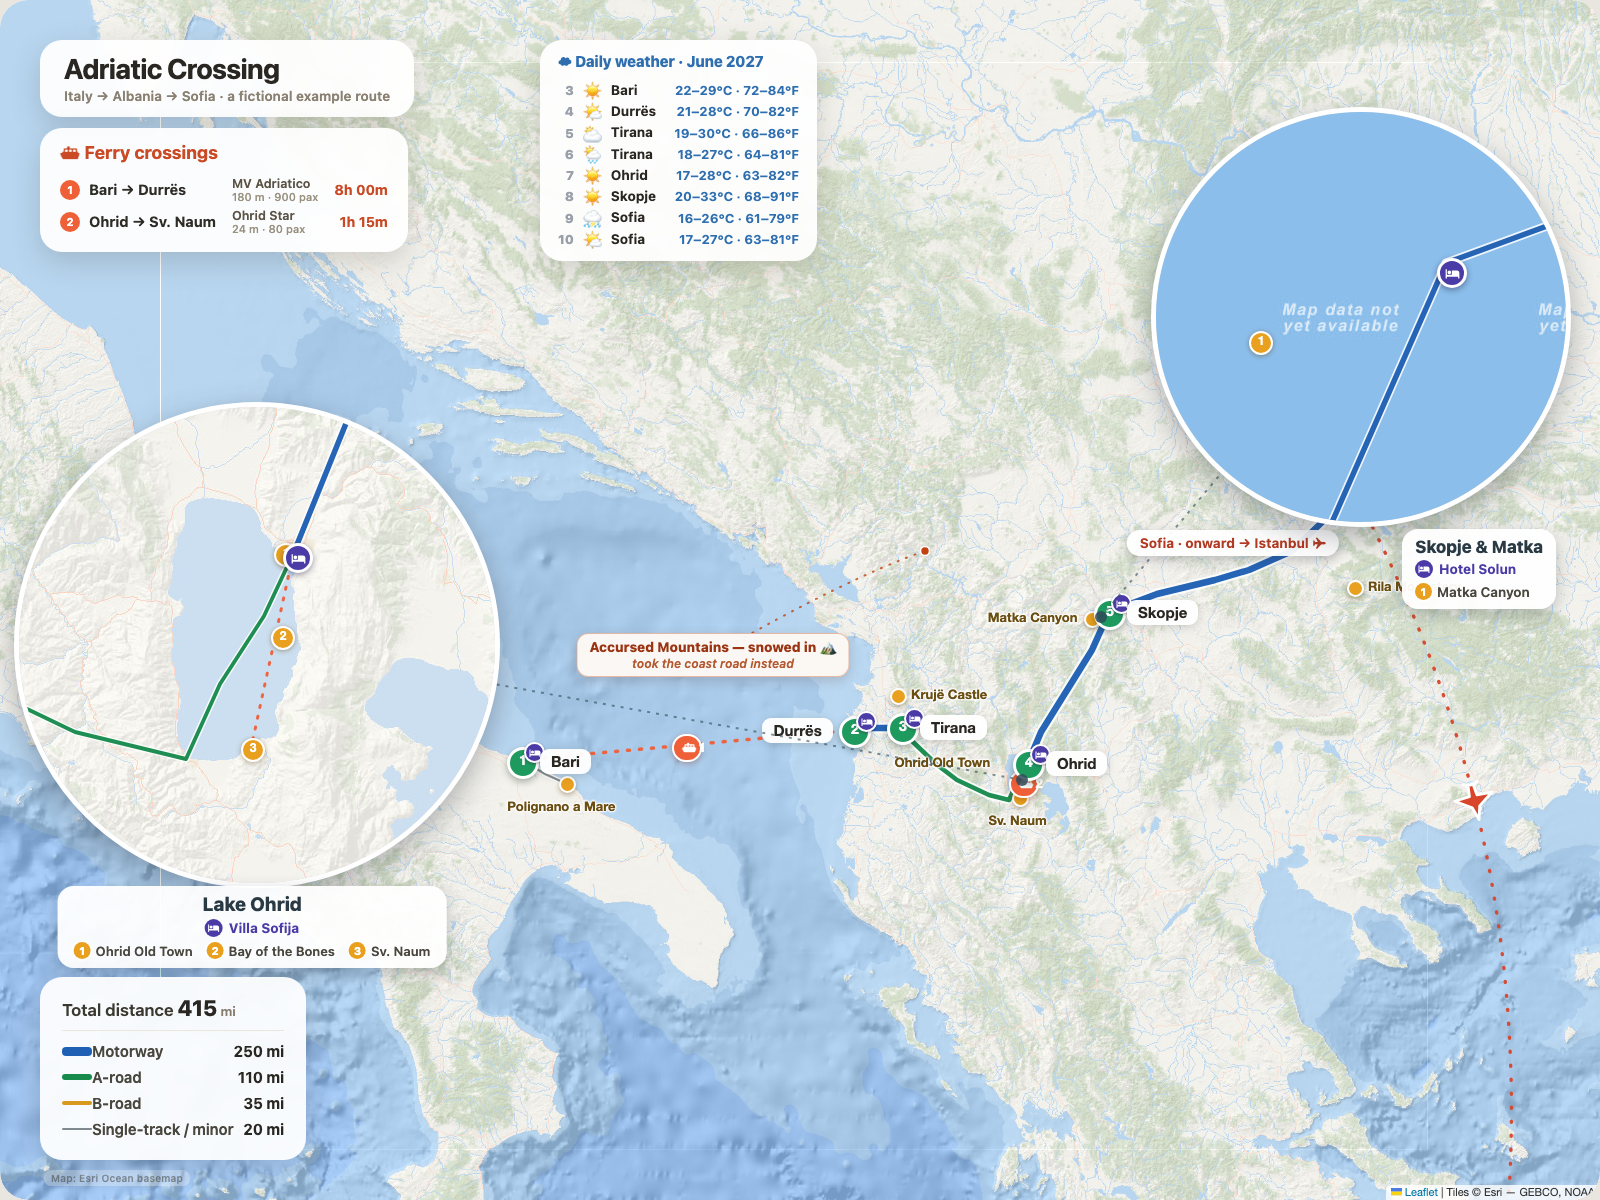
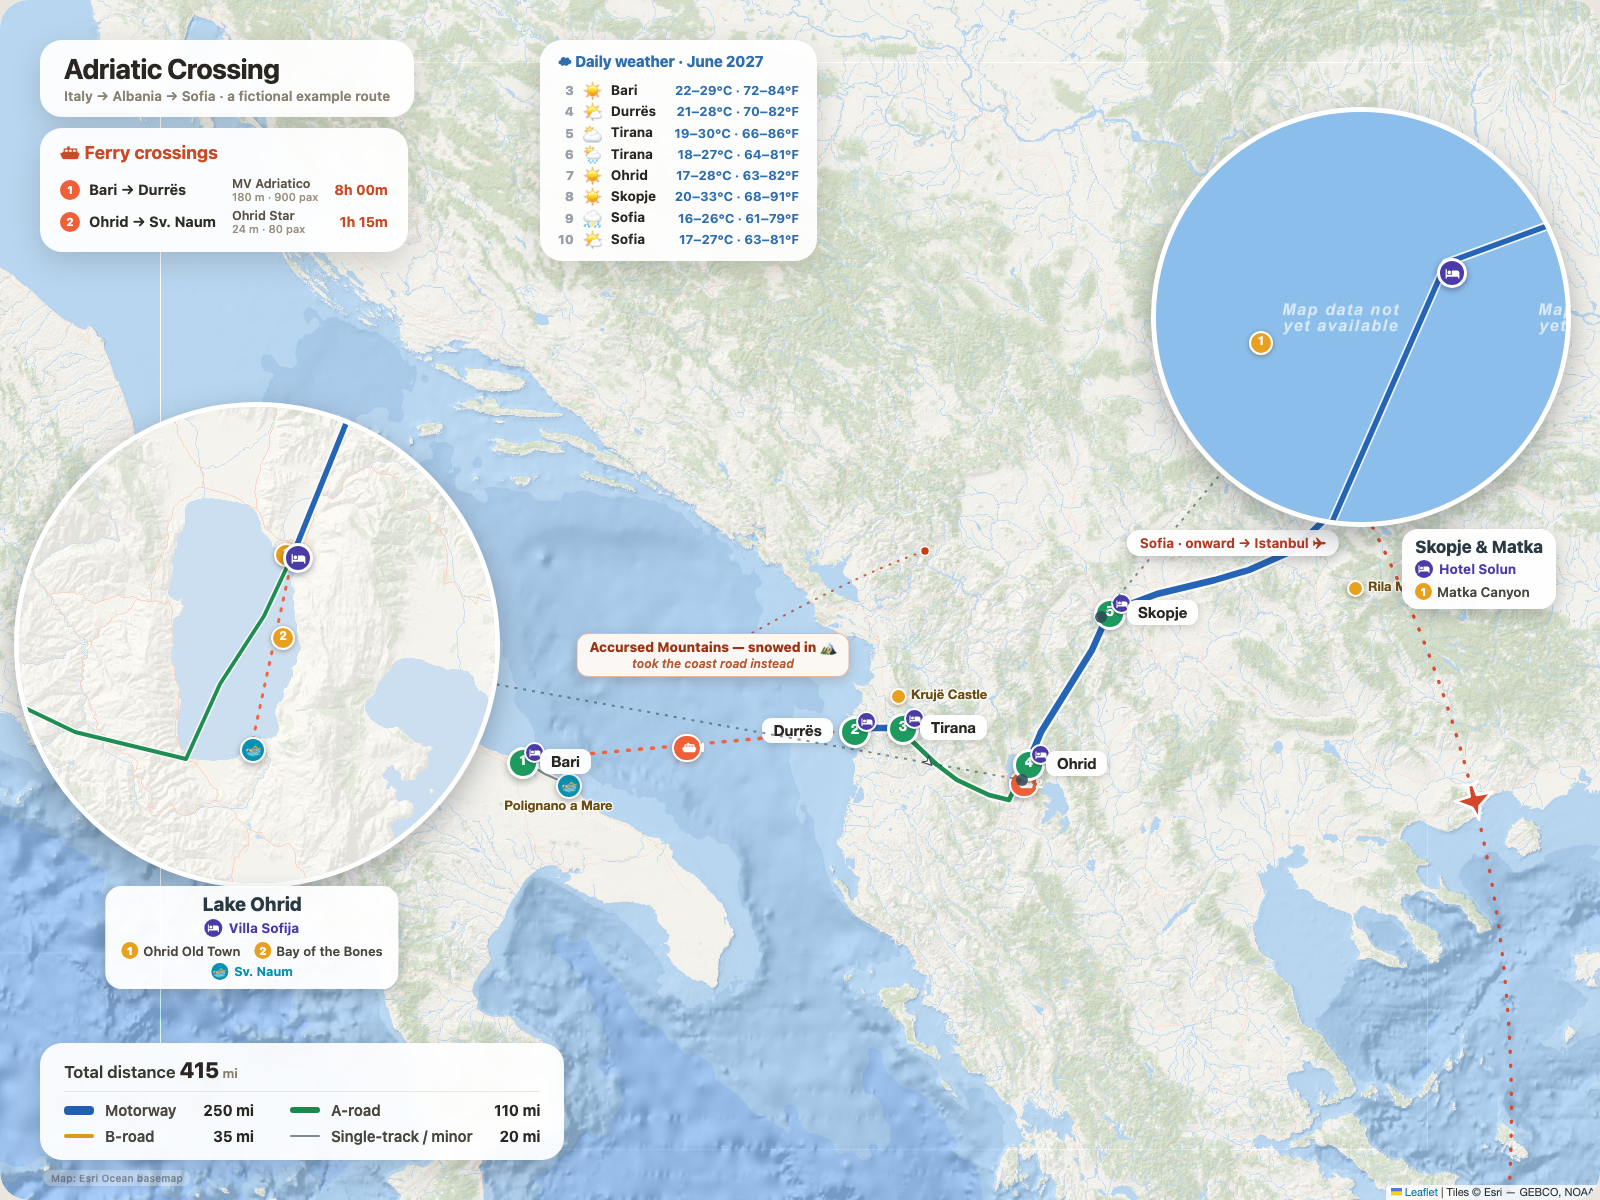
Add ROADMAP (files-to-map pipeline) + port real-trip wins
- ROADMAP.md: frames the project as a raw-files → journey.json → website+PNG
  pipeline (photo EXIF GPS, GPX/KML, itinerary spreadsheet as input adapters),
  with the render half done and input adapters + orchestrator planned.
- Auto-declutter: a POI shown inside a blow-up inset is no longer drawn again
  on the main map.
- POI categories: data.poiKinds lets tagged pois carry a coloured/emoji marker
  and a caption line (schema + example demo it with a 'swim' category).
- Wide two-column distance legend.
- Re-rendered the four hero images.

diff --git a/src/lib/JourneyMap.svelte b/src/lib/JourneyMap.svelte
@@ -137,7 +137,12 @@
     for (const { p } of ferryPix) obstacles.push({ x: p.x - 18, y: p.y - 13, w: 36, h: 26 });
     const stayPix = data.stays.map((s, i) => ({ s, i, p: pt(s.lat, s.lon) }));
     for (const { p } of stayPix) obstacles.push({ x: p.x - 15, y: p.y - 15, w: 30, h: 30 });
-    const poiPix = data.pois.map((s) => ({ s, p: pt(s.lat, s.lon) }));
+    // optional POI categories: data.poiKinds[kind] = { color, emoji } → distinct marker
+    const KINDS = data.poiKinds || {};
+    const kindDot = (k, cls) => `<div class="${cls}" style="background:${(KINDS[k] || {}).color || '#8a5a8f'}">${(KINDS[k] || {}).emoji || ''}</div>`;
+    // a POI shown inside a blow-up bubble is NOT drawn again on the main map (declutter)
+    const inBubble = (s) => INSETS.some((ins) => dkm([s.lat, s.lon], ins.center) < ins.poiKm);
+    const poiPix = data.pois.filter((s) => !inBubble(s)).map((s) => ({ s, p: pt(s.lat, s.lon) }));
     for (const { p } of poiPix) obstacles.push({ x: p.x - 9, y: p.y - 9, w: 18, h: 18 });
 
     for (const { f } of ferryPix) {
@@ -153,15 +158,17 @@
         icon: L.divIcon({ className: '', iconSize: [30, 30], iconAnchor: [15, 15],
           html: `<div class="stay-pin">${i + 1}<span class="hotel-badge">${BED}</span></div><div class="pin-label town ${ra}" style="left:${dx}px;top:${dy}px"><b>${s.area}</b></div>` }) }).addTo(map);
     }
-    // POIs: dot ALWAYS shown; label only when it fits (no overlap, no clutter)
+    // POIs: dot ALWAYS shown; label only when it fits (no overlap, no clutter).
+    // A POI with a `kind` gets its category marker instead of the plain dot.
     for (const { s, p } of poiPix) {
+      const k = s.kind && KINDS[s.kind];
       const w = s.name.length * 7.1 + 6, h = 22;
-      const r = place(p.x, p.y, w, h, 13);
-      let html = `<div class="poi-dot"></div>`;
+      const r = place(p.x, p.y, w, h, k ? 15 : 13);
+      let html = k ? kindDot(s.kind, 'kind-dot') : `<div class="poi-dot"></div>`;
       if (r) { obstacles.push(r); const dx = r.x - (p.x - 8), dy = r.y - (p.y - 8), ra = r.x + r.w / 2 < p.x ? 'ra' : '';
         html += `<div class="poi-label ${ra}" style="left:${dx}px;top:${dy}px">${s.name}</div>`; }
-      L.marker([s.lat, s.lon], { interactive: false, zIndexOffset: 300,
-        icon: L.divIcon({ className: '', iconSize: [16, 16], iconAnchor: [8, 8], html }) }).addTo(map);
+      L.marker([s.lat, s.lon], { interactive: false, zIndexOffset: k ? 320 : 300,
+        icon: L.divIcon({ className: '', iconSize: k ? [22, 22] : [16, 16], iconAnchor: k ? [11, 11] : [8, 8], html }) }).addTo(map);
     }
 
     // ---------- enlarged blow-up insets ----------
@@ -198,18 +205,26 @@
         // hotels (overnight bases) — bed icon
         for (const s of data.stays) L.marker([s.lat, s.lon], { interactive: false, zIndexOffset: 600,
           icon: L.divIcon({ className: '', iconSize: [24, 24], iconAnchor: [12, 12], html: `<div class="mini-hotel">${BED}</div>` }) }).addTo(im);
-        // orange sight POIs — numbered where they belong to this blow-up
-        const near = data.pois.filter((p) => dkm([p.lat, p.lon], ins.center) < ins.poiKm);
+        // sight POIs — numbered where they belong to this blow-up; category POIs get their marker
+        const near = data.pois.filter((p) => !p.kind && dkm([p.lat, p.lon], ins.center) < ins.poiKm);
         const numOf = new Map(near.map((p, i) => [p.name, i + 1]));
         for (const p of data.pois) {
+          if (p.kind && KINDS[p.kind]) {
+            L.marker([p.lat, p.lon], { interactive: false, zIndexOffset: 560,
+              icon: L.divIcon({ className: '', iconSize: [22, 22], iconAnchor: [11, 11], html: kindDot(p.kind, 'mini-kind') }) }).addTo(im);
+            continue;
+          }
           const n = numOf.get(p.name);
           L.marker([p.lat, p.lon], { interactive: false, zIndexOffset: n ? 550 : 500,
             icon: L.divIcon({ className: '', iconSize: n ? [20, 20] : [12, 12], iconAnchor: n ? [10, 10] : [6, 6],
               html: n ? `<div class="mini-num">${n}</div>` : `<div class="mini-poi"></div>` }) }).addTo(im);
         }
 
-        // caption card: title + hotel(s) + numbered key of the orange POIs
+        // caption card: title + hotel(s) + numbered key of the sights + any category lines
         const hotelsNear = data.stays.filter((s) => s.hotel && dkm([s.lat, s.lon], ins.center) < ins.poiKm);
+        const kindsNear = {};
+        for (const p of data.pois)
+          if (p.kind && KINDS[p.kind] && dkm([p.lat, p.lon], ins.center) < ins.poiKm) (kindsNear[p.kind] ||= []).push(p.name);
         const vert = ins.capMode === 'vert';
         const panel = document.createElement('div');
         panel.className = vert ? 'bubble-cap vert' : 'bubble-cap';
@@ -219,7 +234,9 @@
         panel.innerHTML =
           `<div class="bubble-title">${ins.title}</div>` +
           (hotelsNear.length ? `<div class="bubble-hotels"><span class="bed">${BED}</span>${hotelsNear.map((s) => s.hotel).join(' &middot; ')}</div>` : '') +
-          (near.length ? `<div class="bubble-pois">${near.map((p, i) => `<span><i>${i + 1}</i>${p.name}</span>`).join('')}</div>` : '');
+          (near.length ? `<div class="bubble-pois">${near.map((p, i) => `<span><i>${i + 1}</i>${p.name}</span>`).join('')}</div>` : '') +
+          Object.entries(kindsNear).map(([k, names]) =>
+            `<div class="bubble-kind" style="color:${KINDS[k].color}"><span class="kg" style="background:${KINDS[k].color}">${KINDS[k].emoji}</span>${names.join(' &middot; ')}</div>`).join('');
         parent.appendChild(panel);
       }
     }
@@ -345,4 +362,10 @@
   :global(.mini-hotel svg) { width: 15px; height: 15px; fill: #fff; }
   :global(.mini-num) { width: 20px; height: 20px; border-radius: 50%; background: #e8a01e; color: #fff; border: 2.5px solid #fff; box-shadow: 0 1px 5px rgba(90,60,10,.45); font-size: 12px; font-weight: 800; line-height: 15px; text-align: center; }
   :global(.mini-poi) { width: 10px; height: 10px; border-radius: 50%; background: #e8a01e; border: 2.5px solid #fff; box-shadow: 0 1px 4px rgba(90,60,10,.4); }
+
+  /* optional POI categories (data.poiKinds) — coloured marker with an emoji */
+  :global(.kind-dot), :global(.mini-kind) { width: 22px; height: 22px; border-radius: 50%; border: 2.5px solid #fff; box-shadow: 0 2px 6px rgba(40,40,40,.4); display: flex; align-items: center; justify-content: center; font-size: 12px; line-height: 1; }
+  :global(.bubble-kind) { margin-top: 4px; display: flex; align-items: center; justify-content: center; gap: 6px; font-family: -apple-system, BlinkMacSystemFont, 'SF Pro Display', 'Inter', sans-serif; font-size: 12.5px; font-weight: 700; }
+  :global(.bubble-cap.vert .bubble-kind) { justify-content: flex-start; }
+  :global(.bubble-kind .kg) { display: inline-flex; width: 17px; height: 17px; border-radius: 50%; align-items: center; justify-content: center; flex: none; font-size: 10px; }
 </style>

diff --git a/src/routes/+page.svelte b/src/routes/+page.svelte
@@ -73,18 +73,18 @@
     </div>
     {/if}
 
-    <!-- distance + road-class legend -->
+    <!-- distance + road-class legend — wide, two columns -->
     <div class="overlay legend-card">
       <div class="legtitle">Total distance <b>{data.totalMiles.toLocaleString()}</b></div>
-      <table class="roads"><tbody>
+      <div class="roads-grid">
         {#each data.roadStats as r}
-          <tr>
-            <td><span class="rl {r.cls}" style="background:{pal[r.cls]}"></span></td>
-            <td class="rlbl">{r.label}</td>
-            <td class="rmi">{r.mi} mi</td>
-          </tr>
+          <div class="rrow">
+            <span class="rl {r.cls}" style="background:{pal[r.cls]}"></span>
+            <span class="rlbl">{r.label}</span>
+            <span class="rmi">{r.mi} mi</span>
+          </div>
         {/each}
-      </tbody></table>
+      </div>
     </div>
 
     <!-- tiny map credit -->
@@ -128,19 +128,19 @@
   .fv i { display: block; font-style: normal; font-size: 11px; font-weight: 500; color: #9a917f; }
   .ft { font-size: 14px; font-weight: 700; color: #c94a24; text-align: right; white-space: nowrap; }
 
-  .legend-card { bottom: 40px; left: 40px; padding: 18px 22px; }
-  .legtitle { font-size: 17px; font-weight: 600; color: #3a382f; padding-bottom: 9px; margin-bottom: 7px; border-bottom: 1px solid #ece7dd; }
+  .legend-card { bottom: 40px; left: 40px; padding: 14px 24px 15px; }
+  .legtitle { font-size: 17px; font-weight: 600; color: #3a382f; padding-bottom: 8px; margin-bottom: 9px; border-bottom: 1px solid #ece7dd; }
   .legtitle b { font-size: 22px; font-weight: 800; color: #2a2722; }
   .legtitle b::after { content: ' mi'; font-size: 13px; font-weight: 600; color: #857c6c; }
-  .roads { border-collapse: collapse; }
-  .roads td { padding: 4px 0; vertical-align: middle; }
-  .rl { display: block; width: 30px; border-radius: 4px; }
+  .roads-grid { display: grid; grid-template-columns: auto auto; gap: 8px 36px; }
+  .rrow { display: flex; align-items: center; gap: 11px; }
+  .rl { display: block; width: 30px; border-radius: 4px; flex: none; }
   .rl.motorway { height: 9px; }
   .rl.a { height: 6px; }
   .rl.b { height: 4px; }
   .rl.minor { height: 2.5px; }
-  .rlbl { font-size: 15px; font-weight: 600; color: #4a473e; padding: 0 20px 0 12px; }
-  .rmi { font-size: 15px; font-weight: 700; color: #2a2722; text-align: right; padding-right: 18px; }
+  .rlbl { font-size: 15px; font-weight: 600; color: #4a473e; }
+  .rmi { font-size: 15px; font-weight: 700; color: #2a2722; margin-left: auto; padding-left: 16px; white-space: nowrap; }
 
   .map-credit {
     position: absolute; z-index: 500; left: 44px; bottom: 14px;

diff --git a/ROADMAP.md b/ROADMAP.md
@@ -1,0 +1,73 @@
+# Roadmap
+
+The goal: **drop in the raw files a trip leaves behind — and get back a finished map.**
+No manual coordinate-wrangling, no hand-drawn routes. Everything a journey scatters across your
+devices becomes one validated `journey.json`, which renders to an interactive website and
+print-ready PNGs over 15 basemaps.
+
+## The pipeline
+
+```
+  geotagged photos (EXIF GPS + time) ┐
+  GPX / KML tracks                   │
+  itinerary spreadsheet (xlsx / csv) ├─▶  extract & normalise  ─▶  trips/*.yaml
+  booking notes, plans, place lists  │        (per-file readers)      │  validate
+  existing route / journey.json      ┘                                ▼
+                                                            schema/journey.schema.json
+                                                                     │  build-trip
+                                                                     ▼
+                                                              src/lib/journey.json
+                                                                     │  render
+                                                          ┌──────────┴───────────┐
+                                                          ▼                      ▼
+                                                    interactive site        PNG posters
+                                                     (SvelteKit)          (15 basemaps)
+```
+
+Each stage is a **small, single-purpose script that reads one file type and emits the next
+artifact.** Because every hand-off is a plain file (CSV → YAML → JSON → PNG), the whole chain runs
+unattended and any stage can be swapped, re-run, or driven by tooling. Nothing needs a human in the
+loop except deciding what looks good.
+
+## Stages
+
+| # | Stage | Reads | Emits | Status |
+|---|-------|-------|-------|--------|
+| 1 | **Photo-GPS extractor** | geotagged photos (EXIF `GPSLatitude`, `DateTimeOriginal`) | a GPS-points CSV (lat/lon/time) | planned |
+| 2 | **GPX / KML importer** | `.gpx` / `.kml` tracks | route polylines → `drives[]` | planned |
+| 3 | **Itinerary parser** | Excel / CSV / Numbers | `stays[]`, `pois[]`, dates, hotels | planned |
+| 4 | **Weather fetch** | locations + dates | `weather[]` (real history, °C/°F, icons) | ✅ `scripts/fetch-weather.mjs` |
+| 5 | **GPS truth-check** | `journey.json` + a GPS track | flags points you were never near | ✅ `scripts/verify-gps.mjs` |
+| 6 | **Trip compiler** | `trips/*.yaml` (or `.json`) | validated `src/lib/journey.json` | ✅ `scripts/build-trip.mjs` + JSON Schema |
+| 7 | **Renderer** | `journey.json` | website + PNGs | ✅ `scripts/render.mjs` |
+| — | **Orchestrator** | a folder of raw trip files | the finished map, end to end | planned |
+
+Stages 4–7 exist today; 1–3 and the orchestrator are next.
+
+## Proven on a real trip
+
+The renderer isn't a toy — it was built and hardened producing an actual 10-day keepsake map, which
+drove these features (all in the current release):
+
+- **Route by road class**, ferries as dashed sea-legs, numbered overnight stays with hotel badges,
+  auto-labelled sights that only place where they fit
+- **Magnified blow-up insets** with a numbered key, hotel names, and a leader line back to the spot
+- **Declutter** — a point shown inside a blow-up is *not* repeated on the main map
+- **POI categories** (`poiKinds`) — tag sights with a `kind` for their own coloured/emoji marker and
+  a caption line (e.g. beaches, wineries, a themed trail)
+- **Real daily weather** from the Open-Meteo archive, per day/location — with a manual override for
+  when a coarse reanalysis grid undersells a city heatwave
+- **GPS truth-check** so the map only shows places the photos prove you went
+- Hand-note callouts, an "onward journey" tag that arcs off the edge, direction-of-travel chevrons,
+  a wide two-column distance legend, 15 basemaps and 4 road palettes
+
+## Next
+
+- **Input adapters** (stages 1–3) so a trip can start from photos + a GPX + a spreadsheet instead of
+  hand-authored YAML
+- **Route snapping** — turn sparse GPS/photo points into road-following polylines
+- **One-command orchestrator** — point it at a folder of raw files and get `journey.json` + renders
+- **Inset auto-placement** — suggest blow-up circles over empty sea/space automatically
+- **More categories & palettes**, and an optional printable multi-page atlas
+
+Contributions to any stage welcome — each is an isolated script with a plain-file interface.

diff --git a/README.md b/README.md
@@ -39,8 +39,8 @@
 - 🛣 the **driving route**, coloured and sized by road class (motorway → single-track)
 - ⛴ **ferry crossings** as dashed sea-legs, numbered and listed in a table
 - 🛏 **overnight stays** as numbered pins with a hotel badge (+ the hotel name in blow-ups)
-- 📍 **sights / POIs** that auto-label only where they fit (no clutter)
-- 🔍 **magnified blow-up insets** for fiddly island/city detail, with a numbered key
+- 📍 **sights / POIs** that auto-label only where they fit — with optional **categories** (give a set of POIs their own colour + emoji marker)
+- 🔍 **magnified blow-up insets** for fiddly island/city detail, with a numbered key; anything shown in a blow-up is **not repeated** on the main map (auto-declutter)
 - 🌦 a **daily weather** table (fetch real history from [Open-Meteo](https://open-meteo.com/))
 - ✍ an optional **hand-note callout** and an **"onward journey"** tag that arcs off the edge
 - 🧭 direction-of-travel chevrons, a distance legend, and a tiny basemap credit
@@ -105,7 +105,8 @@ inline docs** in VS Code (the example's `$schema` key wires it up automatically)
 | `title`, `subtitle` | headline + one-liner under it |
 | `totalMiles` | number shown in the distance legend |
 | `stays[]` | `{ area, hotel, lat, lon, dates }` — numbered pins, in trip order |
-| `pois[]` | `{ name, lat, lon }` — auto-labelled sights |
+| `pois[]` | `{ name, lat, lon, kind? }` — auto-labelled sights; `kind` references `poiKinds` |
+| `poiKinds` | optional categories: `{ swim: { color, emoji } }` — tagged POIs get that marker + a caption line |
 | `ferries[]` | `{ num, short, vessel, size, dur, a:[lat,lon], b:[lat,lon] }` |
 | `drives[]` | `{ label, segs:[{ cls, line:[[lat,lon]…] }] }` — `cls` ∈ `motorway \| a \| b \| minor` |
 | `roadStats[]` | `{ cls, label, mi }` legend rows |
@@ -189,6 +190,12 @@ Maps / Stamen Design). Weather from [Open-Meteo](https://open-meteo.com/). Built
 [SvelteKit](https://kit.svelte.dev/), [Leaflet](https://leafletjs.com/) and
 [Playwright](https://playwright.dev/). Respect each tile provider's usage policy for anything beyond
 personal renders.
+
+## Where this is going
+
+The bigger picture is a **files-in, map-out pipeline**: drop in geotagged photos, a GPX track and an
+itinerary spreadsheet, and get the finished website + posters with no manual coordinate work. The
+render half exists today; the input adapters are next — see **[ROADMAP.md](ROADMAP.md)**.
 
 ## License
 
